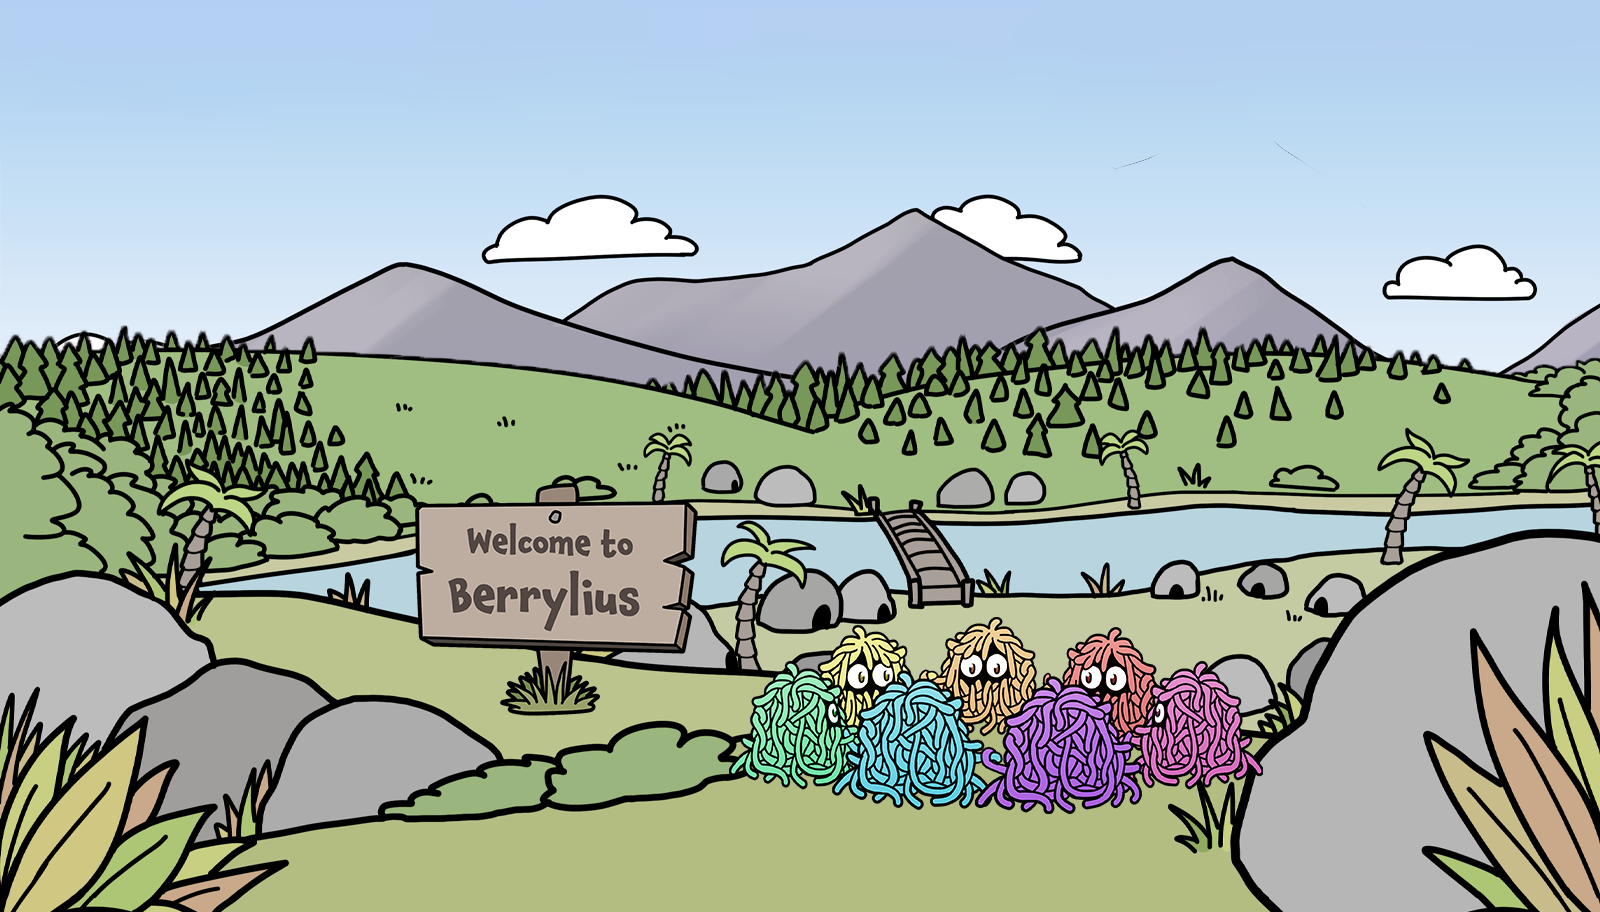
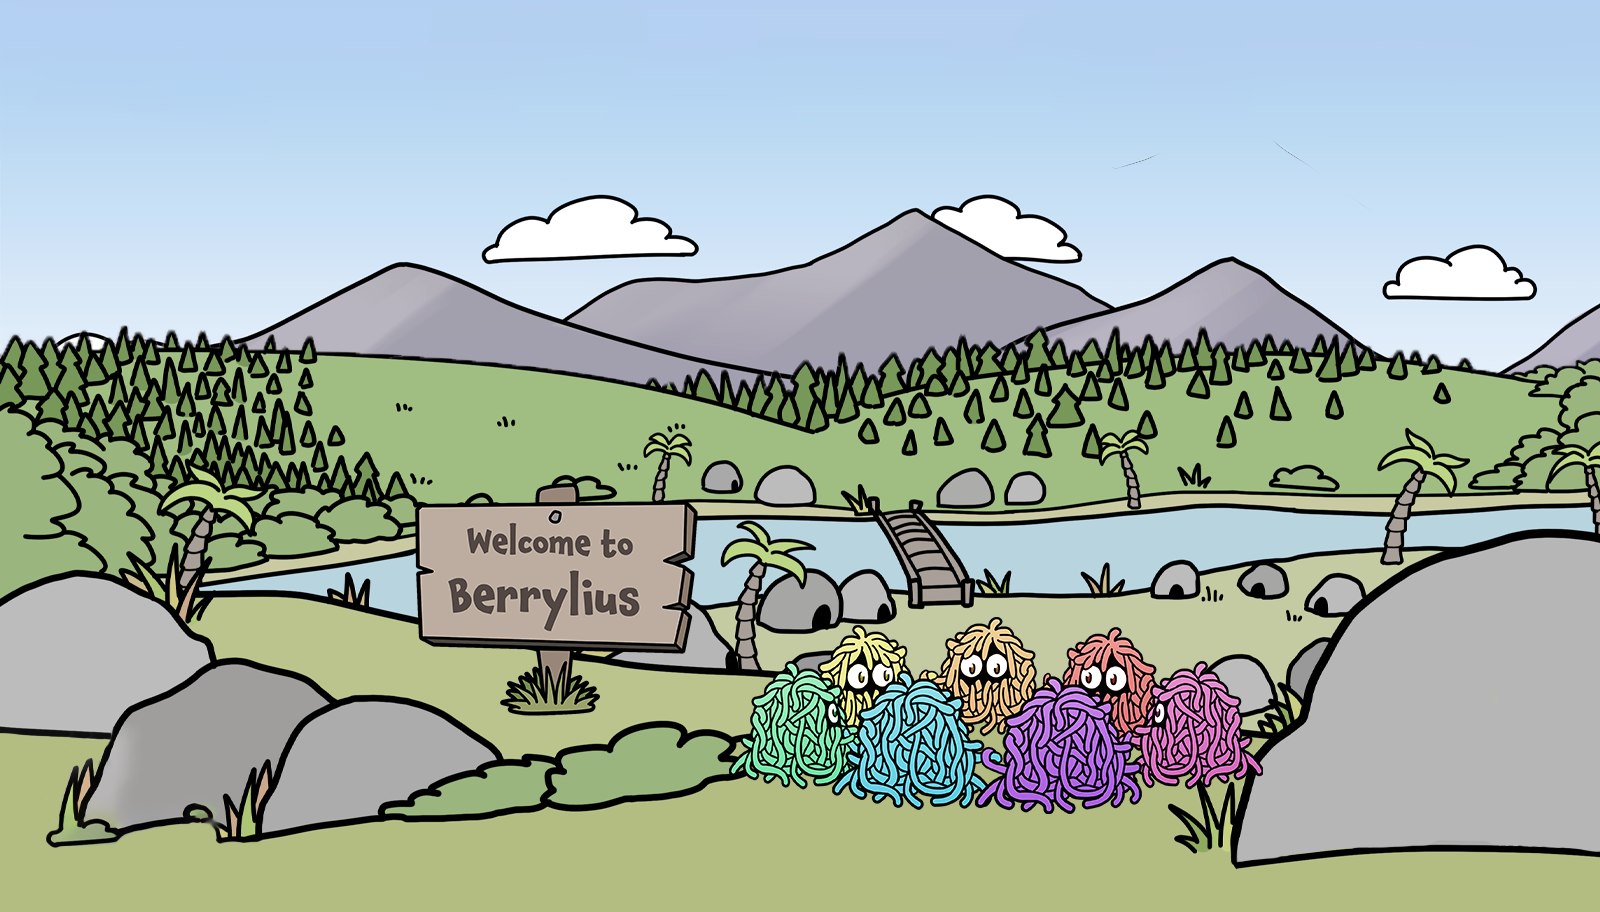
fixes top hero

Changed region(s): [[0.75, 0.6447, 1.0, 1.0], [0.0, 0.7368, 0.1875, 1.0]]

diff --git a/src/styles/styles.scss b/src/styles/styles.scss
@@ -139,12 +139,8 @@ body {
 #landing {
   position: relative;
   padding: 0 !important;
-  // height: 100vh;
 
   img {
-    // position: absolute;
-    // bottom: 0;
-    // left: 0;
     display: block;
   }
 }
